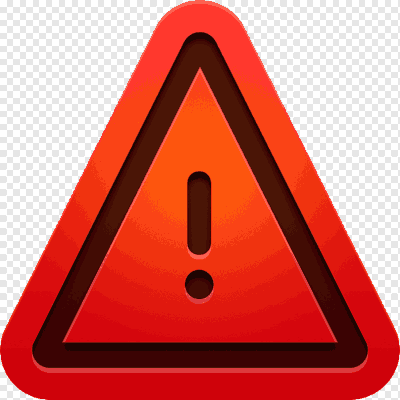
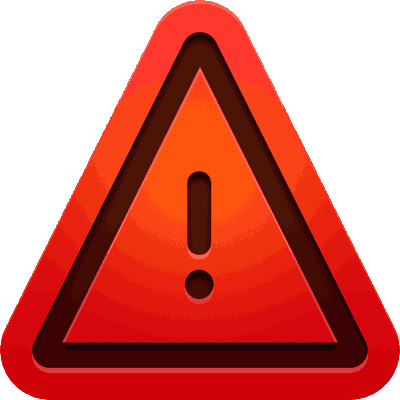
warning imagen
Mejorando la imagen y moviendo botones de lugar

diff --git a/gui/gui.py b/gui/gui.py
@@ -316,8 +316,8 @@ def transicion(antiguo,nuevo):
         for barreno in BarrenosOrigenales:
             CuadradoPrincipales.append(dibujarCuadrado(Principal,"red",barreno))
     elif nuevo==5:
-        Etiwarning.place(x=200,y=200)
-        BotReanudar.place(x=400,y=625)
+        Etiwarning.place(x=375,y=100)
+        BotReanudar.place(x=485,y=550)
     
 Principal=Frame(raiz,width=1150, height=720,bg="white")
 Principal.pack()
@@ -362,7 +362,7 @@ BotTacheEliminar2=Button(Principal,image=reciclar,bg="white",command=lambda: eli
 EtiTrabajando=Label(Principal,fg="green",bg="white",font=("Arial",15),text="Perforando "+str(len(BarrenosOrigenales))+" barrenos...")
 BotParo=Button(Principal,text="Paro",bg="red",font=("Arial",40),command=lambda: transicion(4,5))
 
-Etiwarning=Label(Principal,image=warning)
+Etiwarning=Label(Principal,image=warning,bg="white")
 BotReanudar=Button(Principal,text="Reanudar",bg="green",font=("Arial",30),command=lambda: transicion(5,4))
 
 raiz.mainloop()
